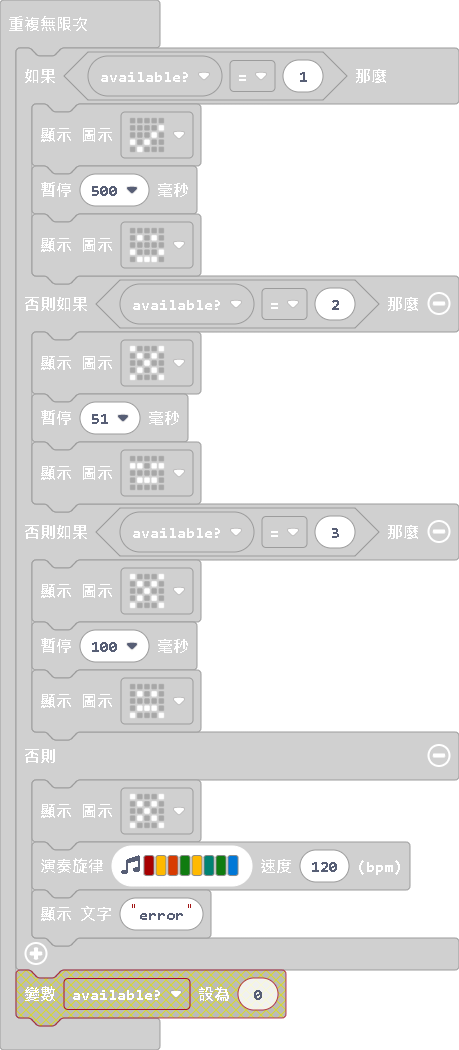
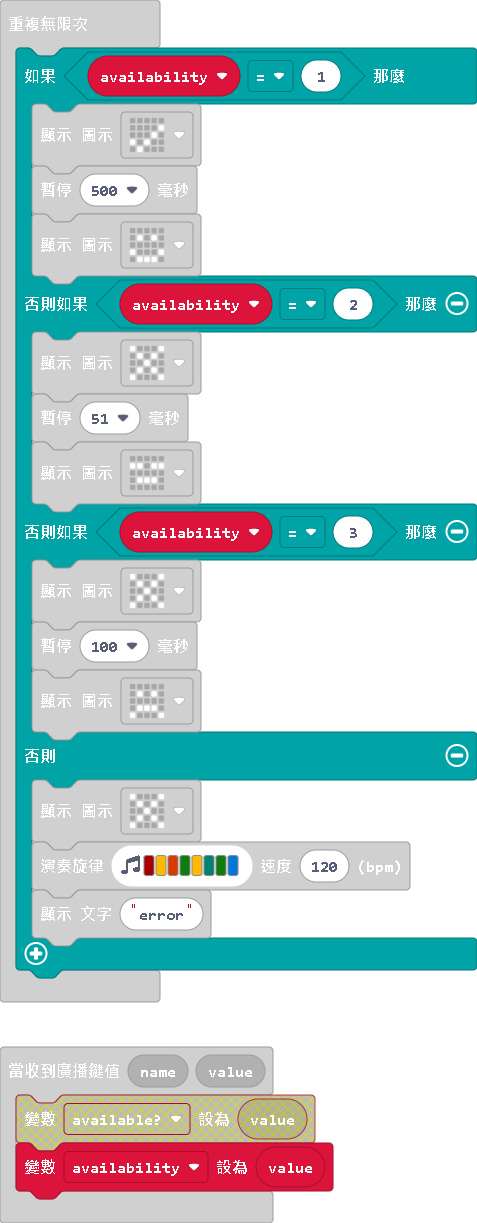
更新 main.blocks, main.ts

diff --git a/main.ts b/main.ts
@@ -1,20 +1,20 @@
 radio.onReceivedValue(function (name, value) {
-    available = value
+    availability = value
 })
-let available = 0
+let availability = 0
 basic.clearScreen()
 radio.setGroup(11)
 radio.setTransmitPower(7)
 basic.forever(function () {
-    if (available == 1) {
+    if (availability == 1) {
         basic.showIcon(IconNames.Yes)
         basic.pause(500)
         basic.showIcon(IconNames.Happy)
-    } else if (available == 2) {
+    } else if (availability == 2) {
         basic.showIcon(IconNames.No)
         basic.pause(51)
         basic.showIcon(IconNames.Asleep)
-    } else if (available == 3) {
+    } else if (availability == 3) {
         basic.showIcon(IconNames.No)
         basic.pause(100)
         basic.showIcon(IconNames.Sad)
